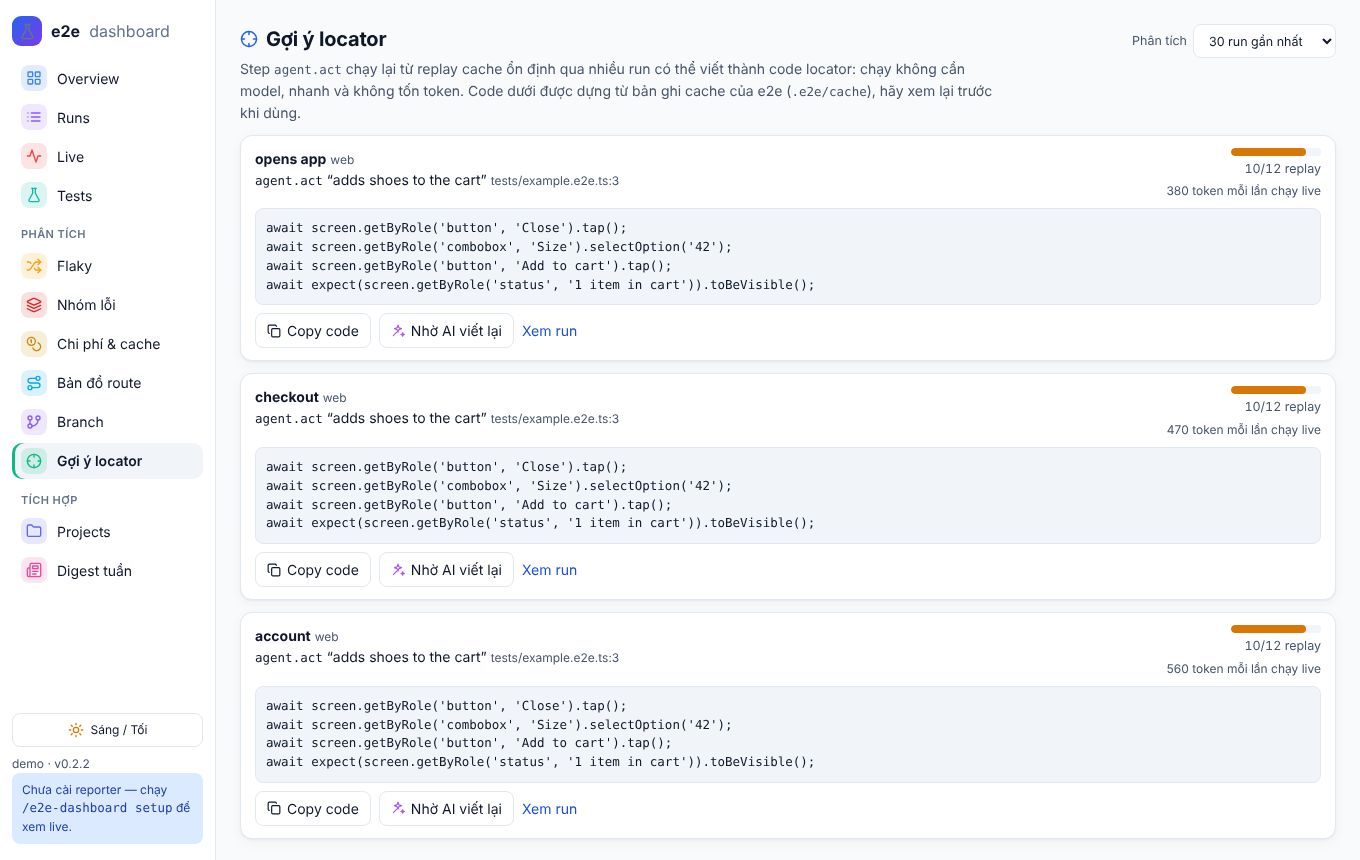
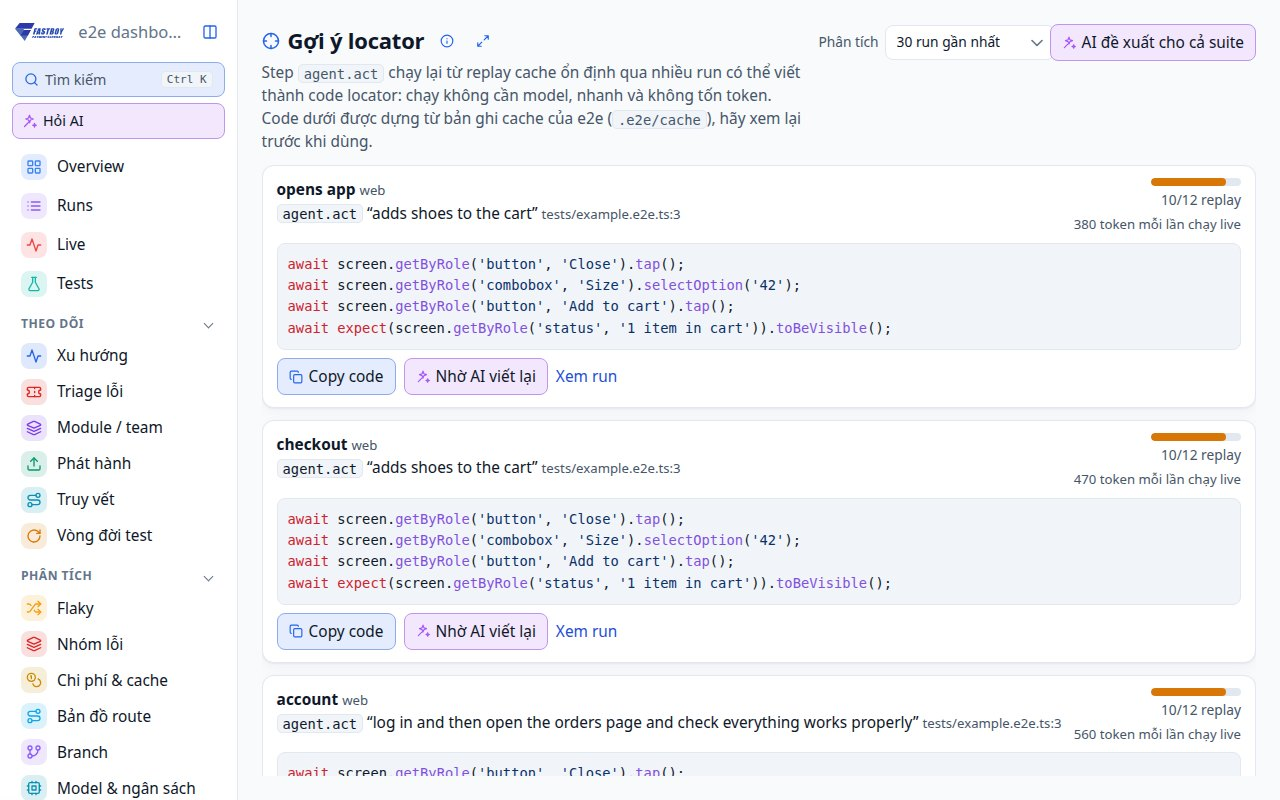
docs: README và ảnh chụp mới cho v0.8.10

diff --git a/README.md b/README.md
@@ -6,10 +6,10 @@
 **Chạy ngay trong Claude Code bằng một lệnh `/e2e-dashboard`.**
 
 ![Claude Code plugin](https://img.shields.io/badge/Claude%20Code-plugin-d97757?style=for-the-badge&logo=anthropic&logoColor=white)
-![Node](https://img.shields.io/badge/Node-%E2%89%A5%2020-339933?style=for-the-badge&logo=node.js&logoColor=white)
+![Node](https://img.shields.io/badge/Node-%E2%89%A5%2022-339933?style=for-the-badge&logo=node.js&logoColor=white)
 ![Dependencies](https://img.shields.io/badge/dependencies-0-16a34a?style=for-the-badge)
 ![Build](https://img.shields.io/badge/build-kh%C3%B4ng%20c%E1%BA%A7n-2563eb?style=for-the-badge)
-![Tests](https://img.shields.io/badge/tests-295%20passing-16a34a?style=for-the-badge&logo=checkmarx&logoColor=white)
+![Tests](https://img.shields.io/badge/tests-359%20passing-16a34a?style=for-the-badge&logo=checkmarx&logoColor=white)
 ![AI](https://img.shields.io/badge/AI-claude%20--p-a855f7?style=for-the-badge&logo=anthropic&logoColor=white)
 ![Database](https://img.shields.io/badge/database-kh%C3%B4ng%20c%E1%BA%A7n-8b5cf6?style=for-the-badge)
 
@@ -98,6 +98,14 @@
 | 📍 | **Sự kiện trên biểu đồ** | Deploy, release, sự cố đánh dấu trên biểu đồ xu hướng |
 | 🌱 | **Vòng đời test** | Test mới, bị bỏ, đổi tên, luôn fail, commit sửa gần nhất |
 | 🌐 | **Trang báo cáo tĩnh** | Xuất cả lịch sử thành thư mục HTML cho GitHub Pages / thư mục chung |
+| ⚙ | **Cài đặt hệ thống** | Theme, cỡ chữ, ngôn ngữ; xem và sửa trực tiếp `.env` / `.env.local` (lưu thẳng vào file, file có secret tự vào `.gitignore`); Linear key, webhook, setup và doctor |
+| 🌐 | **Chọn trình duyệt** | Chromium mặc định, đổi trong Cài đặt: chạy test bằng Firefox hoặc WebKit, kể cả lịch chạy |
+| 🛠 | **Tự sửa lỗi dashboard (có duyệt)** | Lỗi của chính dashboard được AI phân tích và sửa trên branch riêng. **Dừng chờ bạn duyệt diff**; chỉ khi bấm *Chạy test & tạo PR* mới chạy `npm test`, push và mở PR draft |
+| ✨ | **AI mở rộng** | Tóm tắt run, giải thích nhóm lỗi, triage, vì sao chậm, viết test từ ticket, chọn test bị ảnh hưởng, gom locator, tìm test trùng, nháp release notes, giải thích visual diff |
+| 📦 | **Dữ liệu theo ngày + SQLite tuỳ chọn** | Run lưu theo `runs/YYYY/MM/DD/`, trạng thái ở `state/`, file tạm ở `runtime/`. Chỉ mục SQLite (tắt mặc định) cho lịch sử lớn |
+| 🧹 | **Dọn run theo khoảng ngày** | Lọc theo trạng thái và khoảng thời gian rồi xoá run cũ trong một lần |
+| 🗂 | **Thu gọn menu & phóng to** | Menu trái gập thành thanh icon; mỗi chart, bảng, danh sách phóng to toàn màn hình (Esc để thoát) |
+| 🧾 | **Linear có xem trước** | Sửa tiêu đề và nội dung, xem trước, nhờ AI viết lại theo giọng tự nhiên, đính kèm ảnh minh hoạ trước khi gửi |
 
 > [!TIP]
 > **Không cài thêm gì.** Plugin chỉ cần Node (e2e vốn đã cần), không có dependency npm, không bước build, không tải CDN, nên chạy được cả khi không có mạng.
@@ -125,7 +133,7 @@
   </tr>
   <tr>
     <td width="50%"><b>📄 Trang riêng từng test</b><br><img src="docs/images/test-page.jpeg" alt="Lịch sử một test: pass rate, biểu đồ thời gian và token, các lần fail, ảnh fail"></td>
-    <td width="50%"></td>
+    <td width="50%"><b>⚙ Cài đặt hệ thống</b><br><img src="docs/images/system.jpeg" alt="Trang Cài đặt hệ thống: giao diện, tình trạng setup và các mục hệ thống"></td>
   </tr>
 </table>
 
@@ -134,7 +142,7 @@
 ## 🚀 Cài đặt
 
 > [!IMPORTANT]
-> Cần một project đã dùng **e2e** (có `e2e.config.ts`). e2e bản mới yêu cầu **Node ≥ 22.22.3** (hoặc ≥ 24.8).
+> Cần một project đã dùng **e2e** (có `e2e.config.ts`). e2e bản mới yêu cầu **Node ≥ 22.22.3** (hoặc ≥ 24.8). Dashboard cần **Node ≥ 22**; chỉ mục SQLite tuỳ chọn cần Node ≥ 22.13.
 
 **1⃣ Thêm marketplace và cài plugin** (trong Claude Code):
 
@@ -250,7 +258,8 @@ Lệnh này copy `e2e-dashboard.reporter.mjs` (kèm `.d.mts`) vào project và t
 | Lệnh | | Việc |
 |---|:-:|---|
 | `/e2e-dashboard` | 🖥 | Bật server nền nếu chưa chạy, mở trình duyệt, in URL |
-| `/e2e-dashboard setup` | 🔌 | Gắn reporter vào `e2e.config.ts` để xem live |
+| `/e2e-dashboard setup` | 🔌 | Gắn reporter vào `e2e.config.ts` để xem live; chọn trình duyệt mặc định (`E2E_BROWSER`) |
+| `/e2e-dashboard doctor [--dry-run]` | 🩺 | Chuyển dữ liệu theo bố cục cũ sang bố cục mới (runs theo ngày, `state/`, `runtime/`), dựng lại chỉ mục SQLite nếu đã bật. `--dry-run` chỉ liệt kê, không ghi |
 | `/e2e-dashboard export [runId]` | 📤 | Xuất một run (mặc định là run mới nhất) thành HTML tự chứa |
 | `/e2e-dashboard status` | ℹ | Xem server có đang chạy không |
 | `/e2e-dashboard digest [ngày]` | 📰 | In digest Markdown (mặc định 7 ngày), lưu vào `.e2e-dashboard/digests/` |
@@ -434,20 +443,17 @@ Mọi thứ đều tuỳ chọn. Tạo `.e2e-dashboard/config.json` trong projec
 <project>/.e2e-dashboard/
 ├── .gitignore              ← "*": cả thư mục tự bị git bỏ qua
 ├── config.json             ← (tuỳ chọn) cấu hình ở trên
+├── config.json             ← (tuỳ chọn) cấu hình ở trên
 ├── server.json             ← port + token khi server đang chạy (quyền 0600)
-├── server.log
-├── live.json               ← tiến độ run hiện tại (cho status line)
-├── issues.json             ← fingerprint → issue Linear đã gửi
-├── quarantine.json         ← test đang cách ly
-├── triage.json             ← trạng thái, người phụ trách, ghi chú của từng lỗi
-├── events.json             ← deploy / release / sự cố đánh dấu trên biểu đồ
-├── alerts.json, ci-sync.json ← trạng thái cảnh báo và đồng bộ CI
+├── state/                  ← cài đặt, triage, cách ly, Linear đã gửi, sự kiện, cảnh báo, CI sync…
+├── runtime/                ← server.log, live.json (tiến độ run hiện tại, cho status line)
+├── cache/index.sqlite      ← chỉ mục SQLite (chỉ khi bật trong Cài đặt; xoá đi là dựng lại)
 ├── longterm/               ← số liệu gom theo ngày, giữ mãi (trang Xu hướng)
 ├── reports/                ← báo cáo tuần / tháng (.html + .md)
 ├── digests/<ngày>.md       ← digest đã in
 ├── exports/run-<id>.html   ← file export
 ├── site/                   ← trang tĩnh (`publish`)
-└── runs/<thời-điểm>_<runId>/
+└── runs/YYYY/MM/DD/<giờ>_<runId>/
     ├── report.json         ← bản copy nguyên văn report của e2e
     ├── meta.json           ← tóm tắt: status, số test, token, git, ghim/baseline
     ├── traces/<resultId>.md
@@ -510,6 +516,7 @@ Script kiểm tra (`npm test`, `claude plugin validate`, `claude plugin test`), 
 | 📣 | URL webhook chỉ lấy từ `~/.e2e-dashboard/config.json` hoặc biến môi trường, chỉ `https`: repo clone về không thể gửi dữ liệu test tới địa chỉ nó chọn |
 | 🎯 | `git diff` chỉ nhận tên nhánh hợp lệ (không bắt đầu bằng `-`); lịch chạy/watch dùng chung runner đã kiểm tra tham số |
 | 🤝 | Run kéo từ thư mục team chỉ là dữ liệu: kiểm tra id khớp tên thư mục, schema `report-1`, bỏ symlink, bỏ kết quả AI của người khác |
+| 🛠 | Tự sửa lỗi: AI chỉ sửa trong worktree tạm từ `origin/main`, chỉ đổi file trong `server/ ui/ reporter/ bin/ test/ support/`, không có shell. Commit và push chạy không hook. Trạng thái nằm ngoài repo (`~/.e2e-dashboard/selfheal/`). Người duyệt xem đủ diff văn bản trước khi `npm test` và push; diff quá 12 KB thì bỏ |
 | 🔔 | Thông báo desktop truyền tiêu đề/nội dung qua argv hoặc biến môi trường, không qua shell |
 | 🎯 | Bản ghi replay cache chỉ đọc khi tên là hash 64 hex, nằm trong project, không qua symlink, ≤ 1 MiB |
 
@@ -518,7 +525,7 @@ Script kiểm tra (`npm test`, `claude plugin validate`, `claude plugin test`), 
 ## 🛠 Phát triển
 
 ```bash
-npm test                   # node --test — 295 test, không dependency
+npm test                   # node --test — 359 test, không dependency
 claude plugin test .       # test của mod (update / version)
 node test/seed-demo.mjs    # project demo 12 run: flaky, 2 branch, route, cache, ảnh visual diff
 ```
